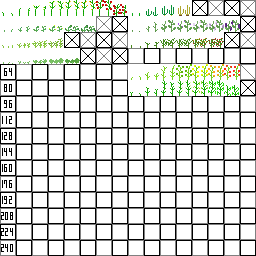
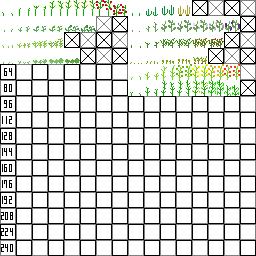
Radishes added, fertilizer growth speed scaling fixed
Added textures for, and implemented radishes.
Fixed fertilizer addition and growth rate scaling.
Fixed limiting of cactus & sugar cane growth to y=127, due to using a
byte.
Implemented items for textures added in last commit.

Changed region(s): [[0.5, 0.1875, 1.0, 0.25]]

diff --git a/Source/net/widux/stevetech/farming/TileEntityCrop.java b/Source/net/widux/stevetech/farming/TileEntityCrop.java
@@ -32,8 +32,6 @@ public class TileEntityCrop extends TileEntity
 	private byte tickDelay = 0; // Used to delay updates from ticks. Improves performance, slows rendering updates.
 	private byte blockHeight = 1; // 
 	
-	private static int amountSeeds = EnumCrop.getNumberCrops(); // Amount of different types of seeds
-	
 	public TileEntityCrop()
 	{
 
@@ -258,7 +256,7 @@ public class TileEntityCrop extends TileEntity
 				// Set-up top plant block
 				up.setCropType(this.crop);
 				up.stopGrowing = true;
-				if(3 == 2+1)
+				if(3 == 2+1) //TODO WTF is this?
 				{
 					up.setGrowthStage(this.crop.getGrowthStages() - 1); // The maximum
 				}
@@ -270,7 +268,7 @@ public class TileEntityCrop extends TileEntity
 	
 	/**
 	 * The lower the result is, the higher the chance of growing will be.
-	 * This is a formula to get the range of half the growth time to 5, depending on fertilizer.
+	 * This is a formula to get a number in the range 1/4 -> full, depending on percentage.
 	 * @return The modified growth probability.
 	 */
 	private int getGrowthSpeed()
@@ -281,8 +279,9 @@ public class TileEntityCrop extends TileEntity
 		}
 		else
 		{
-			int half = this.crop.getGrowthSpeed() / 2;
-			return (int) (half - (half * (this.fertilizer / 200.000F)));
+			int full = this.crop.getGrowthSpeed();
+			int quarter = this.crop.getGrowthSpeed() / 4;
+			return (int) (quarter + ((full - quarter) * (1 - (this.fertilizer / 100.000F))));
 		}
 	}
 	
@@ -374,7 +373,7 @@ public class TileEntityCrop extends TileEntity
 	{
 		if(item.itemID == Item.dyePowder.itemID && item.getItemDamage() == 15) // Bonemeal
 		{
-			return 15;
+			return 34;
 		}
 		
 		else if(item.getItem() instanceof IFertilizer) // Other fertilizers added via the API

diff --git a/Source/net/widux/stevetech/farming/EnumCrop.java b/Source/net/widux/stevetech/farming/EnumCrop.java
@@ -5,14 +5,14 @@ import net.minecraft.item.ItemStack;
 public enum EnumCrop
 {
 	
-	TOMATO		("Tomato",		8, 2, 5, 3, 80, new ItemStack(SteveTechFarming.harvestedItems, 1, 0),	new ItemStack(SteveTechFarming.seeds, 1, 0),	true, true),
+	TOMATO		("Tomato",		8, 2, 5, 3, 80,  new ItemStack(SteveTechFarming.harvestedItems, 1, 0),	new ItemStack(SteveTechFarming.seeds, 1, 0),	true, true),
 	ONION		("Onion",		4, 1, 4, 1, 110, new ItemStack(SteveTechFarming.seeds, 1, 1),			null,											false, false),
-	CUCUMBER	("Cucumber",	6, 1, 4, 4, 60, new ItemStack(SteveTechFarming.harvestedItems, 1, 1),	new ItemStack(SteveTechFarming.seeds, 1, 2),	true, true),
+	CUCUMBER	("Cucumber",	6, 1, 4, 4, 60,  new ItemStack(SteveTechFarming.harvestedItems, 1, 1),	new ItemStack(SteveTechFarming.seeds, 1, 2),	true, true),
 	EGGPLANT	("Eggplant",	7, 1, 5, 3, 140, new ItemStack(SteveTechFarming.harvestedItems, 1, 2),	new ItemStack(SteveTechFarming.seeds, 1, 3),	true, true),
 	TEA			("Tea",			4, 1, 5, 3, 100, new ItemStack(SteveTechFarming.harvestedItems, 1, 3),	new ItemStack(SteveTechFarming.seeds, 1, 4),	true, true),
 	COFFEE		("Coffee",		6, 1, 6, 1, 100, new ItemStack(SteveTechFarming.seeds, 1, 5),			null,											false, false),
-	LETTUCE		("Lettuce",		6, 1, 5, 3, 55, new ItemStack(SteveTechFarming.harvestedItems, 1, 4),	new ItemStack(SteveTechFarming.seeds, 1, 6),	true, true);
-	//RADISHES
+	LETTUCE		("Lettuce",		5, 1, 5, 3, 55,  new ItemStack(SteveTechFarming.harvestedItems, 1, 4),	new ItemStack(SteveTechFarming.seeds, 1, 6),	true, true),
+	RADISHES    ("Radishes",	5, 1, 3, 2, 40,  new ItemStack(SteveTechFarming.harvestedItems, 1, 5),	new ItemStack(SteveTechFarming.seeds, 1, 7),	true, true);
 	//CABBAGE
 	//BELLPEPPER
 	//PEAS

diff --git a/Source/net/widux/stevetech/farming/ItemHarvest.java b/Source/net/widux/stevetech/farming/ItemHarvest.java
@@ -10,8 +10,8 @@ import net.minecraft.item.ItemStack;
 public class ItemHarvest extends Item
 {
 	
-	public static final String[] names = {"Tomato", "Cucumber", "Eggplant", "Tea Leaves", "Raw Coffee Beans", "Roasted Coffee Beans", "Lettuce", "Radishes", "Green Bell Pepper", "Yellow Bell Pepper", "Orange Bell Pepper", "Red Bell Pepper"};
-	public static final String[] info =  {"",       "",         "",         "",     "Should be roasted before use", "",               "",        "",         "",                  "",                   "",                   ""};
+	public static final String[] names = {"Tomato", "Cucumber", "Eggplant", "Tea Leaves", "Raw Coffee Beans", "Roasted Coffee Beans", "Lettuce", "Radishes", "Green Bell Pepper", "Yellow Bell Pepper", "Orange Bell Pepper", "Red Bell Pepper", "Cabbage", "Peas", "Beans", "Strawberries", "Raspberries", "Blueberries", "Blackberries", "Bananas"};
+	public static final String[] info =  {"",       "",         "",         "",     "Should be roasted before use", "",               "",        "",         "",                  "",                   "",                   "",                "",        "",     "",      "",             "",            "",            "",             ""};
 	
 	public ItemHarvest(int ID)
 	{

diff --git a/Source/net/widux/stevetech/farming/ItemCreativeTools.java b/Source/net/widux/stevetech/farming/ItemCreativeTools.java
@@ -79,10 +79,10 @@ public class ItemCreativeTools extends Item
 		}
 		else if(metaTool == 0 && blockID == Block.cactus.blockID || blockID == Block.reed.blockID) // Progressor, Cactus or Sugar Cane
 		{
-			byte topBlock = (byte)y;
+			short topBlock = (short)y;
 			for(byte up = 1; up < 32; up++)
 			{
-				if(world.getBlockId(x, y + up, z) == blockID) {topBlock = (byte)(y + up);}
+				if(world.getBlockId(x, y + up, z) == blockID) {topBlock = (short)(y + up);}
 				else {break;}
 			}
 			if(world.getBlockId(x, topBlock + 1, z) == 0)
